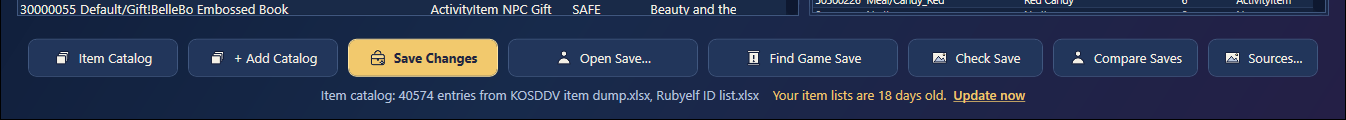
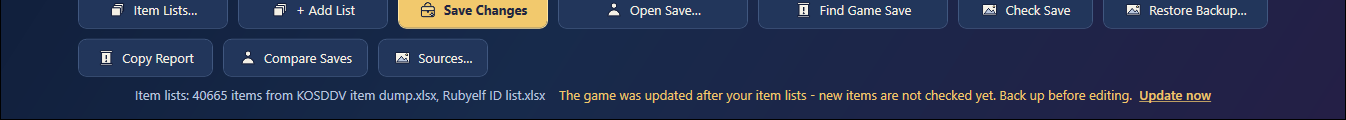
README: current gold line screenshot (no SAFE label, current button names)

diff --git a/README.md b/README.md
@@ -132,7 +132,7 @@ or add carefully.
 After every update the gold line says how many items are new. Want to know without clicking? Tick
 **New items at start** (top right): once a day the editor gets the newest lists and tells you.
 
-![Your item lists are 18 days old. Update now](docs/img/screen-lists-notice.png?v=1.4.1)
+![The game was updated after your item lists. Update now](docs/img/screen-lists-notice.png?v=1.5.4)
 
 A list is only replaced if the new copy reads correctly, so a broken or emptied sheet can't spoil
 anything. Fresh copies are kept in the editor's own folder; your own Excel files are never changed.
